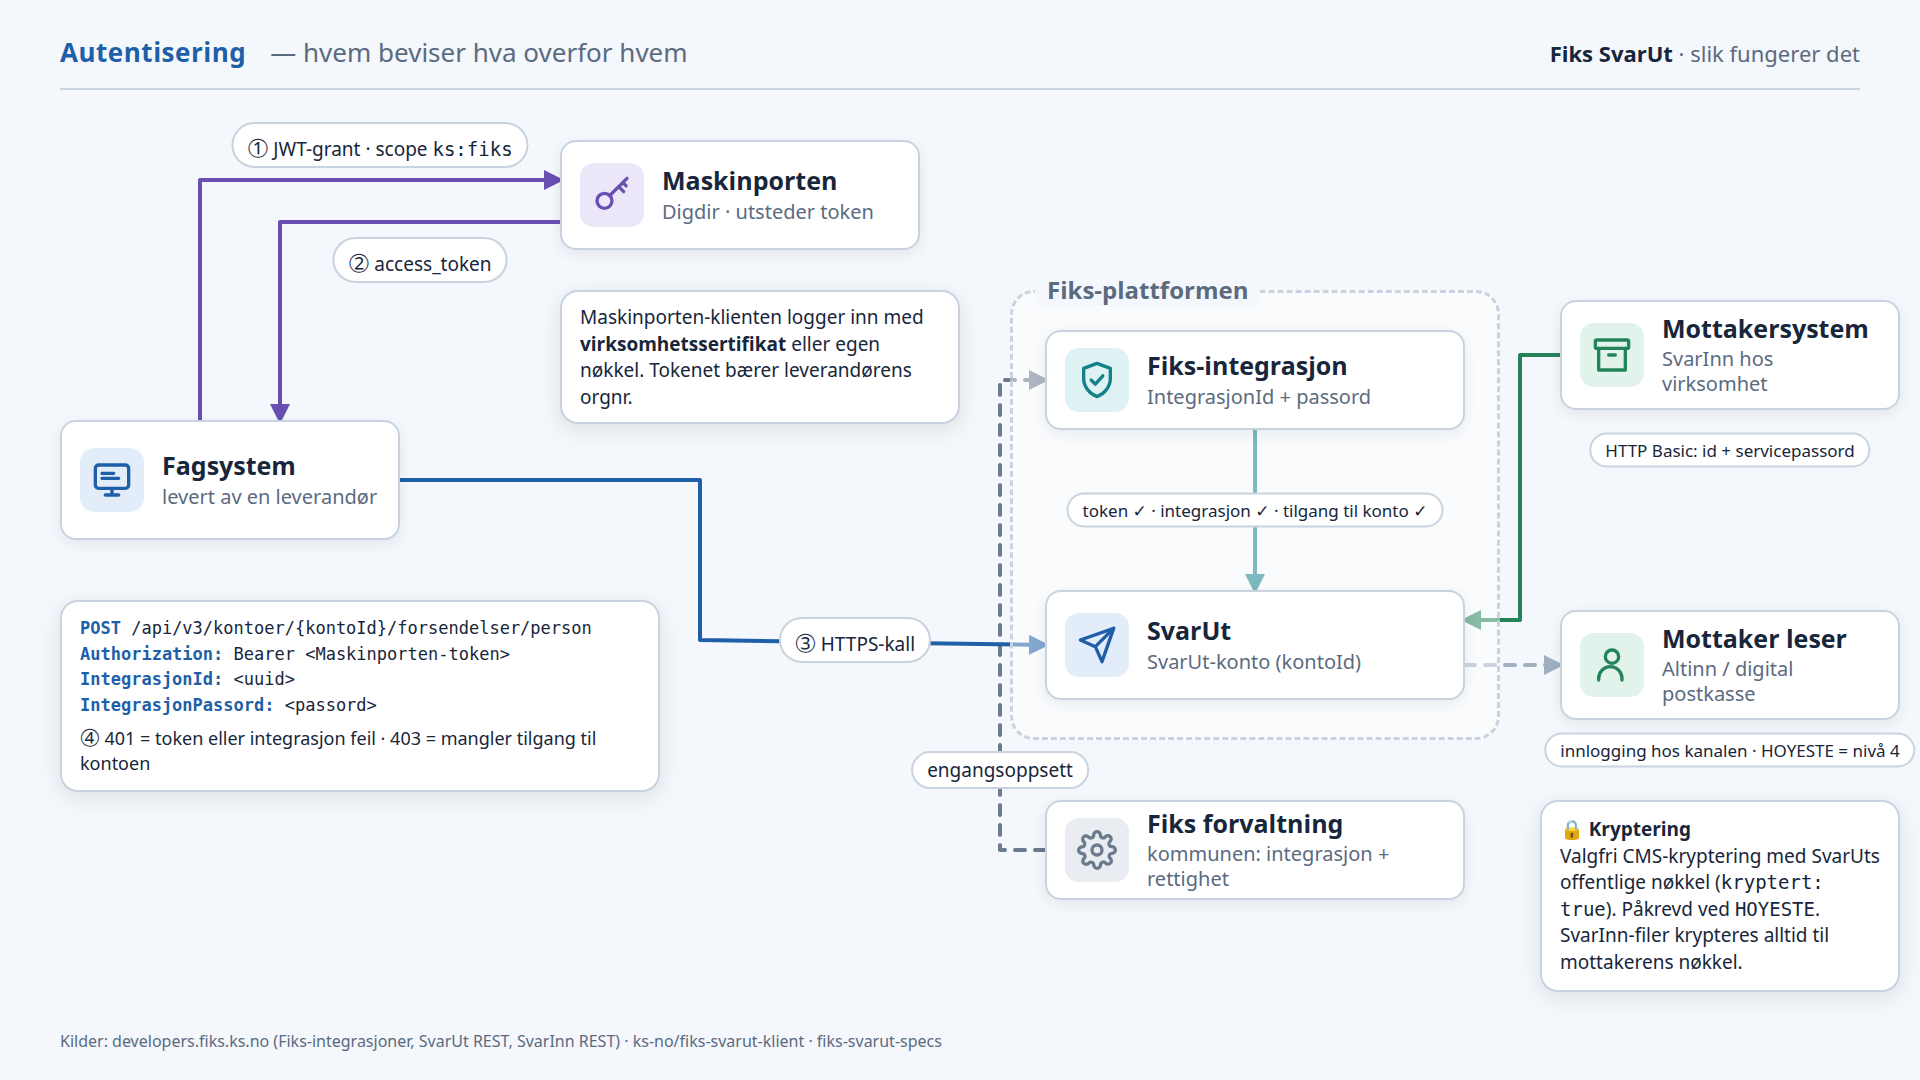
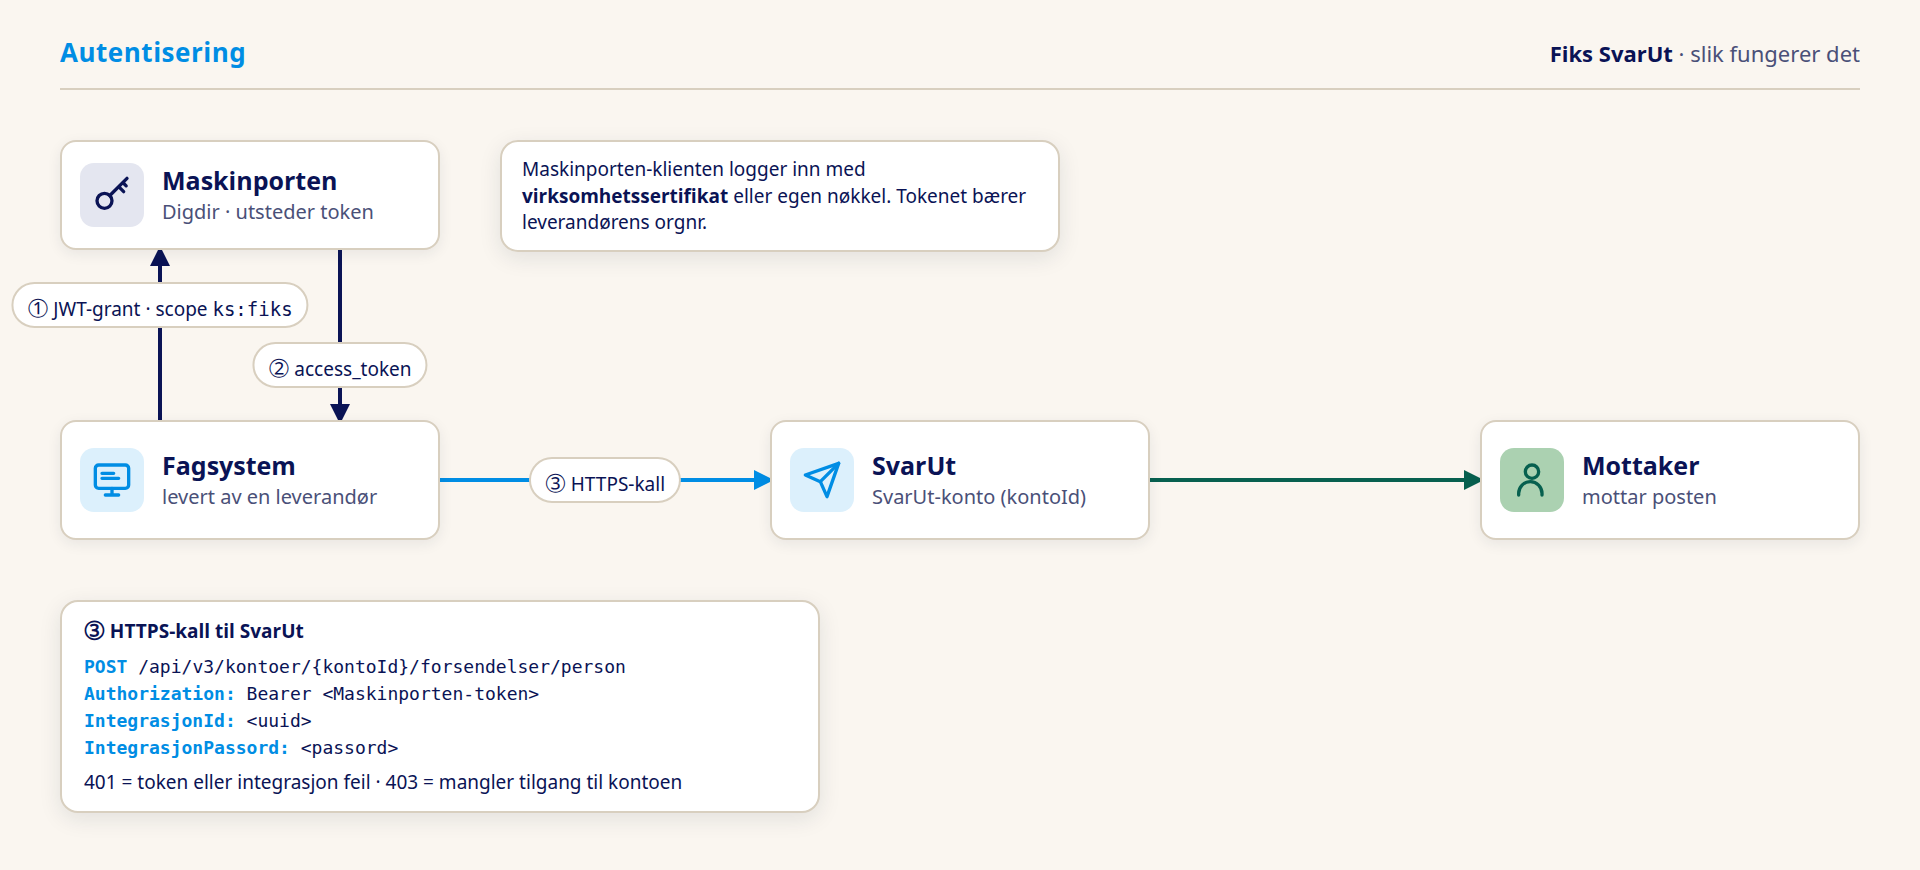
Oppdateringer etter PR

diff --git a/content/Tjenester/svarut/sende/signering.md b/content/Tjenester/svarut/sende/signering.md
@@ -1,7 +1,7 @@
 ---
 title: Signering
 description: "Send dokumenter til signering med signeringstjenesten til Digdir."
-date: 2017-01-01
+date: 2026-11-01
 weight: 50
 aliases: [/tjenester/svarut/signeringstjeneste/, /tjenester/svarut/api-versjoner/Signeringstjeneste]
 ---
@@ -23,7 +23,7 @@ Signering støttes bare for forsendelser til privatpersoner: `POST /v3/kontoer/{
 |---|---|
 | `dokumenter[].skalSigneres` | `true` på nøyaktig ett dokument. Dokumentet må være PDF og kan ikke være større enn 10 MiB. |
 | `signering.signeringUtloper` | Når oppdraget utløper. Må være minst én dag frem i tid. |
-| `signering.signaturType` | `AUTENTISERT_SIGNATUR` eller `AVANSERT_SIGNATUR` |
+| `signering.signaturType` | `AUTENTISERT_SIGNATUR` eller `AVANSERT_SIGNATUR`. Se [Signaturtyper](https://signering-docs.readthedocs.io/en/latest/signaturtype.html#signature-type-selection) for mer informasjon om hva de forskjellige signaturtypene innebærer. |
 | `sikkerhetsniva` | Sikkerhetsnivået for innlogging ved signering. `BETYDELIG` er standard. |
 | `svarSendesTil` | Organisasjonsnummeret som skal få det signerte dokumentet, med `type: ORGANISASJON`. Kan sløyfes hvis avsenderkontoen har et standard organisasjonsnummer for retur av signerte dokumenter. |
 
@@ -57,44 +57,14 @@ Signeringsoppdrag kan også lages manuelt i SvarUt-portalen. Der markerer du dok
 
 ### Fra fagsystem til innbygger
 
-```mermaid
-sequenceDiagram
-    participant F as Fagsystem
-    participant S as SvarUt
-    participant D as Altinn eller digital postkasse
-    actor I as Innbygger
-    F->>S: Sender forsendelse med signeringsoppdrag
-    S-->>F: Forsendelse-id
-    S->>D: Sender melding
-    D->>I: Varsel på e-post og SMS
-```
+![Fagsystemet sender forsendelse med signeringsoppdrag til SvarUt og får forsendelse-id tilbake. SvarUt sender melding til Altinn eller digital postkasse, som varsler innbyggeren på e-post og SMS.](/images/svarut/signering-til-innbygger.png)
 
 Forsendelsen går gjennom vanlig [kanalvalg](/tjenester/svarut/sende/kanalvalg/). Har innbyggeren ikke åpnet meldingen innen lesefristen, går brevet i posten. Innbyggeren kan likevel signere digitalt frem til oppdraget utløper.
 
 ### Fra innbygger tilbake til fagsystem
 
-```mermaid
-sequenceDiagram
-    actor I as Innbygger
-    participant D as Altinn eller digital postkasse
-    participant S as SvarUt
-    participant P as Digipost signering
-    participant F as Fagsystem
-    I->>D: Logger inn og trykker på signeringslenken
-    D->>S: Lenken går til SvarUt
-    S->>S: Sjekker at oppdraget er gyldig
-    S->>P: Oppretter signeringsoppdrag
-    P->>I: Viser dokumentet
-    I->>P: Signerer eller avviser
-    P-->>S: Signert dokument
-    S-->>I: Viser status
-    S->>F: Ny forsendelse med det signerte dokumentet
-```
+![Innbyggeren trykker på signeringslenken, SvarUt sjekker oppdraget og oppretter det hos Digipost signering. Innbyggeren signerer eller avviser, og SvarUt sender det signerte dokumentet som ny forsendelse til fagsystemet.](/images/svarut/signering-tilbake-til-fagsystem.png)
 
 - Signerer innbyggeren, lager SvarUt en ny forsendelse med det signerte dokumentet til organisasjonsnummeret i `svarSendesTil`. Organisasjonen henter den med [SvarInn](/tjenester/svarut/motta/) eller i Altinn.
 - Avviser innbyggeren, kan oppdraget ikke signeres senere. Avsender ser det i signeringshistorikken.
 - Lukker innbyggeren nettleseren uten å velge, kan hen signere senere, så lenge oppdraget ikke har utløpt.
-
-## SOAP
-
-Signering i SOAP V7 og nyere bruker `sendForsendelse` med feltene `krevNiva4Innlogging`, `svarSendesTil`, `signeringUtloper`, `signaturtype` og `dokumenter/skalSigneres`. SOAP avvikles. Se [Migrering til REST v2/v3](/tjenester/svarut/migrering/).

diff --git a/content/Tjenester/svarut/sende/_index.md b/content/Tjenester/svarut/sende/_index.md
@@ -37,42 +37,9 @@ Bruk `/print` bare når mottakeren ikke kan nås digitalt. Papirpost koster mer 
 Sender du til person eller virksomhet, går forsendelsen uansett til print hvis det ikke finnes en digital kanal, 
 gitt at man ikke har bedt om kun digital levering. Se [Kanalvalg](/tjenester/svarut/sende/kanalvalg/).
 
-Noen felter er nyttige å kjenne til:
-
-| Felt | Brukes til |
-|---|---|
-| `eksternReferanse` | Din egen id for forsendelsen. Kan brukes til å slå opp forsendelsen senere. |
-| `korrelasjonsid` | Grupperer flere forsendelser som hører sammen. |
-| `kunDigitalLevering` | Forsendelsen blir aldri printet. Lykkes ikke digital levering, får du status `IKKE_LEVERT`, men ingen annen beskjed. |
-| `sikkerhetsniva` | `BETYDELIG` (standard, nivå 3) eller `HOYESTE` (nivå 4). Ved `HOYESTE` må dokumentene være kryptert. Se [Sikkerhet](/tjenester/svarut/sikkerhet/). |
-| `svarSendesTil` | Hvor et svar skal sendes. Står også som avsenderadresse på papirbrev. |
-| `kanSvareViaEdialog` | Mottakeren får en lenke til å svare digitalt. Se [Svar på forsendelse](/tjenester/svarut/sende/svar-pa-forsendelse/). |
-| `forsendelsestype` | Bare til virksomheter. Avgjør hvilket SvarInn-mottakersystem som får forsendelsen. Se [Adressering](/tjenester/svarut/motta/adressering/). |
-| `taushetsbelagtPost` | Bare til virksomheter. Forsendelsen går til tjenesten for taushetsbelagt post i Altinn. |
-| `signering` | Bare til privatpersoner. Se [Signering](/tjenester/svarut/sende/signering/). |
-
-## Følge opp forsendelsen
-
-| Hva | Endepunkt | Spesifikasjon |
-|---|---|---|
-| Status for én eller flere forsendelser | `POST /v3/kontoer/{kontoId}/forsendelser/status/sok` | [status v3](https://editor-next.swagger.io/?url=https://developers.fiks.ks.no/api/forsendelse-status-api-v3.json) |
-| Hendelseslogg | `GET /v2/forsendelser/{forsendelseId}/hendelser` | [hendelser v2](https://editor-next.swagger.io/?url=https://developers.fiks.ks.no/api/forsendelse-hendelser-api-v2.json) |
-| Signeringshendelser | `GET /v2/forsendelser/{forsendelseId}/signeringshendelser` | [hendelser v2](https://editor-next.swagger.io/?url=https://developers.fiks.ks.no/api/forsendelse-hendelser-api-v2.json) |
-| Metadata for forsendelsen | `GET /v2/forsendelser/{forsendelseId}/metadata` | [metadata v2](https://editor-next.swagger.io/?url=https://developers.fiks.ks.no/api/forsendelse-metadata-api-v2.json) |
-| Finne forsendelser med ekstern referanse | `GET /v2/kontoer/{kontoId}/forsendelser` og `.../forsendelser/metadata` | [eksternref v2](https://editor-next.swagger.io/?url=https://developers.fiks.ks.no/api/forsendelse-eksternref-api-v2.json) |
-
 ### Status
 
 Utfyllende informasjon om hvilke statuser som eksisterer og hva de betyr finnes [her](/tjenester/svarut/sende/status/).
-
-## Andre endepunkter
-
-| Hva | Endepunkt | Spesifikasjon |
-|---|---|---|
-| Markere som lest, når mottakeren har lest forsendelsen et annet sted | `POST /v2/forsendelser/{forsendelseId}/lest` | [lest v2](https://editor-next.swagger.io/?url=https://developers.fiks.ks.no/api/forsendelse-lest-api-v2.json) |
-| Slette dokumentene til en forsendelse | `DELETE /v2/forsendelser/{forsendelseId}/dokumenter` | [slett v2](https://editor-next.swagger.io/?url=https://developers.fiks.ks.no/api/forsendelse-slett-api-v2.json) |
-| Gyldige forsendelsestyper | `GET /v2/forsendelsestyper` | [typer v2](https://editor-next.swagger.io/?url=https://developers.fiks.ks.no/api/forsendelse-typer-api-v2.json) |
-| Mottakersystem for et organisasjonsnummer | `GET /v2/mottakersystem` | [mottakersystem v2](https://editor-next.swagger.io/?url=https://developers.fiks.ks.no/api/mottakersystem-api-v2.json) |
 
 ## Feilmeldinger
 

diff --git a/content/Tjenester/svarut/sende/dokumenter.md b/content/Tjenester/svarut/sende/dokumenter.md
@@ -1,7 +1,7 @@
 ---
 title: Dokumenter og vedlegg
 description: "Multipart-request, filtyper, størrelser, tidsavbrudd og kryptering."
-date: 2026-02-01
+date: 2026-11-01
 weight: 10
 aliases: [/tjenester/svarut/sendmeddokumenter/, /tjenester/svarut/send-dokumenter, /tjenester/svarut/api/sendmeddokumenter, /svarut/api/sendmeddokumenter]
 ---
@@ -89,7 +89,7 @@ Vil du ha med giroark, setter du `giroarkSide` på dokumentet. Siden printes på
 |--------------------------|----------------------------------------------------------------------------------------------------------------------------------------------------------------------------------------------------------|
 | 350 MB totalt            | Forsendelser som kan gå til print må ha en total filstørrelse på maksimalt 350 MB. PDF-ene slås sammen til én fil når de sendes til printleverandøren. Er forsendelsen større, blir den avvist.          |
 | Ingen fast grense        | Forsendelser med `kunDigitalLevering: true` kan sende dokumenter med hvilken som helst størrelse. Alt må være overført innen tidsgrensen oppgitt under.                                                  |
-| 50 MiB eller 200 vedlegg | Over denne grensen vil brev sendt til digital postkasse få en lenke til dokumentene i stedet for selve filene. Se [Store forsendelser til digital postkasse](#store-forsendelser-til-digital-postkasse). |
+| 50 MiB eller 200 vedlegg | Er forsendelsen over 50 MiB eller den har mer enn 200 vedlegg, sender ikke SvarUt filene til Digipost eller e-Boks. Mottakeren får i stedet en melding med en lenke til hvert dokument og en lenke til en zip-fil med alle dokumentene. Dokumentene lastes ned fra SvarUt. |
 | 18 MB                    | Forsendelser til Norsk Helsenett kan ha en total filstørrelse på maks 18 MB. Det er kun PDF som er godtatt                                                                                               |
 | 10 MiB                   | Dokument som skal signeres. Det er kun 1 dokument som kan markeres for signering pr forsendelse.                                                                                                         |
 
@@ -97,10 +97,6 @@ Vil du ha med giroark, setter du `giroarkSide` på dokumentet. Siden printes på
 
 SvarUt avbryter innsendingen dersom det går mer enn 16 minutter. Sett lesetimeout i klienten til minst 16 minutter. 
 Avbryter klienten først, kan forsendelsen være mottatt uten at du får id-en tilbake.
-
-### Store forsendelser til digital postkasse
-
-Er forsendelsen over 50 MiB eller den har mer enn 200 vedlegg, sender ikke SvarUt filene til Digipost eller e-Boks. Mottakeren får i stedet en melding med en lenke til hvert dokument og en lenke til en zip-fil med alle dokumentene. Dokumentene lastes ned fra SvarUt.
 
 ## Kryptering
 

diff --git a/content/Tjenester/svarut/sende/status.md b/content/Tjenester/svarut/sende/status.md
@@ -18,7 +18,7 @@ En forsendelse går gjennom flere statuser fra den blir mottatt til den har nåd
 | `FEILET_UNDER_MOTTAK` | Noe feilet hos SvarUt under mottak. Send forsendelsen på nytt, eller kontakt brukerstøtte om det skjer igjen. | Ja |
 | `KLAR_FOR_MOTTAK` | Forsendelsen ligger klar for henting i et SvarInn-mottakersystem. | Nei |
 | `SENDT_SDP` | Sendt til digital postkasse (Digipost eller e-Boks). | Nei |
-| `LEVERT_SDP` | Digital postkasse har bekreftet levering. | I praksis ja. Kan bli `LEST`. |
+| `LEVERT_SDP` | Digital postkasse har bekreftet levering. | I praksis ja. Kan bli `LEST`. Kan også bli videresendt til Altinn eller Print dersom varsling av mottaker i de digitale postkassene feiler.  |
 | `SENDT_ALTINN` | Sendt til Altinn. | Nei |
 | `LEVERT_ALTINN` | Publisert i Altinn. | Nei |
 | `SENDT_NHN_MOTTAKER` | Sendt til Norsk Helsenett. Mottakeren har ikke bekreftet ennå. | Nei |
@@ -26,7 +26,7 @@ En forsendelse går gjennom flere statuser fra den blir mottatt til den har nåd
 | `SENDT_DIGITALT` | Sendt digitalt med `kunDigitalLevering`, men ikke lest ennå. | I praksis ja. Kan bli `LEST`. |
 | `SENDT_PRINT` | Sendt til printleverandør. | Nei |
 | `PRINTET` | Printleverandøren har bekreftet utskrift. | Ja |
-| `LEST` | Mottakeren har lastet ned eller åpnet forsendelsen, eller SvarInn har kvittert. | Ja |
+| `LEST` | Mottakeren har lastet ned eller åpnet hoveddokumentet (det første dokumentet) i forsendelsen, eller SvarInn-mottakersystemet har kvittert ut mottak av forsendelse. | Ja |
 | `IKKE_LEVERT` | Forsendelsen var `kunDigitalLevering` og kunne ikke leveres digitalt. Dette kan vere fordi mottaker ikke finnes i Kontaktregisteret, har reservert seg mot digital post eller ikke har oppdatert kontaktinformasjonen siste 18 måneder. | Ja |
 | `MANUELT_HANDTERT` | Forsendelsen er håndtert manuelt via SvarUt GUI. Kan skje når som helst. | Ja |
 | `SLETTET` | Filer og metadata som ikke trengs til statistikk og fakturering, er slettet. Kan skje når som helst. | Ja |

diff --git a/content/Tjenester/svarut/sende/svar-pa-forsendelse.md b/content/Tjenester/svarut/sende/svar-pa-forsendelse.md
@@ -25,22 +25,7 @@ I SOAP V6 og nyere heter feltet `svarPaForsendelseLink`.
 
 ## Slik foregår det
 
-```mermaid
-sequenceDiagram
-    participant A as Sak- og arkivsystem
-    participant S as SvarUt
-    participant D as Altinn eller digital postkasse
-    actor I as Mottaker
-    participant E as eDialog
-    A->>S: 1. Sender forsendelse med kanSvareViaEdialog
-    S-->>A: 2. Forsendelse-id
-    S->>D: 3. Melding med lenke til eDialog
-    I->>D: 4. Trykker på lenken
-    I->>E: 5. Fyller ut og sender svaret
-    E-->>I: 6. Kvittering på e-post
-    E->>S: 7. Ny forsendelse med svarPaForsendelse
-    S->>A: 8. Svaret hentes med SvarInn
-```
+![Sak- og arkivsystemet sender forsendelse med kanSvareViaEdialog. Mottakeren trykker på lenken i meldingen, svarer i eDialog og får kvittering. eDialog sender svaret som ny forsendelse via SvarUt, og sak- og arkivsystemet henter det med SvarInn.](/images/svarut/svar-pa-forsendelse.png)
 
 1. Sak- og arkivsystemet sender forsendelsen med `kanSvareViaEdialog: true` og `svarSendesTil`.
 2. Systemet får forsendelse-id-en tilbake.

diff --git a/content/Tjenester/svarut/sende/nhn.md b/content/Tjenester/svarut/sende/nhn.md
@@ -1,10 +1,14 @@
 ---
 title: Norsk Helsenett
 description: "Send brev til fastleger og andre aktører i Norsk Helsenett."
-date: 2026-02-01
+date: 2026-11-01
 weight: 40
 aliases: [/tjenester/svarut/sendenhn/, /tjenester/svarut/send-nhn]
 ---
+
+{{% notice style="warning" title="Under utvikling" %}}
+Sending til Norsk Helsenett er fortsatt under utvikling, og ikke prodsatt ennå. Ta kontakt med oss i KS Digital om dere ønsker å teste mot vårt testmiljø. 
+{{% /notice %}}
 
 Med SvarUt kan saksbehandlere sende brev fra sak-, arkiv- eller fagsystemet til fastleger og andre aktører i Norsk Helsenett (NHN). Brevet havner direkte i pasientjournalsystemet (EPJ) hos mottakeren.
 

diff --git a/content/Tjenester/svarut/kom-i-gang.md b/content/Tjenester/svarut/kom-i-gang.md
@@ -8,7 +8,7 @@ Denne siden er for deg som skal lage en ny integrasjon mot SvarUt REST v2/v3. Sk
 
 ## Slik henger tilgangen sammen
 
-![Fagsystemet henter token fra Maskinporten og kaller SvarUt med token, integrasjons-id og passord. Kommunen setter opp integrasjonen i Fiks forvaltning.](/images/svarut/SvarUt-autentisering-maskinporten.png)
+![Fagsystemet henter token fra Maskinporten og kaller SvarUt med token, integrasjons-id og passord. SvarUt leverer posten til mottakeren.](/images/svarut/SvarUt-autentisering-maskinporten.png)
 
 Forutsetninger for å gjøre et kall mot SvarUt:
 

diff --git a/content/Tjenester/svarut/utgatt/RESTV1.md b/content/Tjenester/svarut/utgatt/RESTV1.md
@@ -1,7 +1,7 @@
 ---
 title: REST V1
 description: "Utgått: REST V1."
-date: 2019-04-11
+date: 2026-11-01
 aliases: ["/tjenester/svarut/integrasjon/restv1/", "/svarut/integrasjon/ForsendelseRestServiceV1", "/svarut/integrasjon/forsendelserestservicev1/", "/tjenester/svarut/integrasjon/forsendelserestservicev1/"]
 weight: 10
 ---

diff --git a/content/Tjenester/svarut/utgatt/kodeeksempelMottakerRest.md b/content/Tjenester/svarut/utgatt/kodeeksempelMottakerRest.md
@@ -1,7 +1,7 @@
 ---
 title: Kodeeksempel MottaksserviceV1
 description: "Utgått: Kodeeksempel MottaksserviceV1."
-date: 2017-01-01
+date: 2026-11-01
 aliases: ["/tjenester/svarut/integrasjon/kodeeksempelmottakerrest/", /svarut/integrasjon/kodeeksempelMottakerRest]
 weight: 42
 ---

diff --git a/content/Tjenester/svarut/utgatt/SOAPV10.md b/content/Tjenester/svarut/utgatt/SOAPV10.md
@@ -1,7 +1,7 @@
 ---
 title: SOAP V10
 description: "Utgått: SOAP V10."
-date: 2018-05-11
+date: 2026-11-01
 aliases: ["/tjenester/svarut/integrasjon/soapv10/", /svarut/integrasjon/ForsendelseServiceV10, /tjenester/svarut/integrasjon/forsendelsesservicev10/]
 weight: 21
 ---

diff --git a/content/Tjenester/svarut/utgatt/SOAPV4.md b/content/Tjenester/svarut/utgatt/SOAPV4.md
@@ -1,7 +1,7 @@
 ---
 title: SOAP V4
 description: "Utgått: SOAP V4."
-date: 2017-01-01
+date: 2026-11-01
 aliases: ["/tjenester/svarut/integrasjon/soapv4/", /svarut/integrasjon/ForsendelseServiceV4, /tjenester/svarut/integrasjon/forsendelseservicev4/]
 weight: 27
 ---

diff --git a/content/Tjenester/svarut/utgatt/SOAPV5.md b/content/Tjenester/svarut/utgatt/SOAPV5.md
@@ -1,7 +1,7 @@
 ---
 title: SOAP V5
 description: "Utgått: SOAP V5."
-date: 2017-01-01
+date: 2026-11-01
 aliases: ["/tjenester/svarut/integrasjon/soapv5/", /svarut/integrasjon/ForsendelseServiceV5, /tjenester/svarut/integrasjon/forsendelseservicev5/]
 weight: 26
 ---
